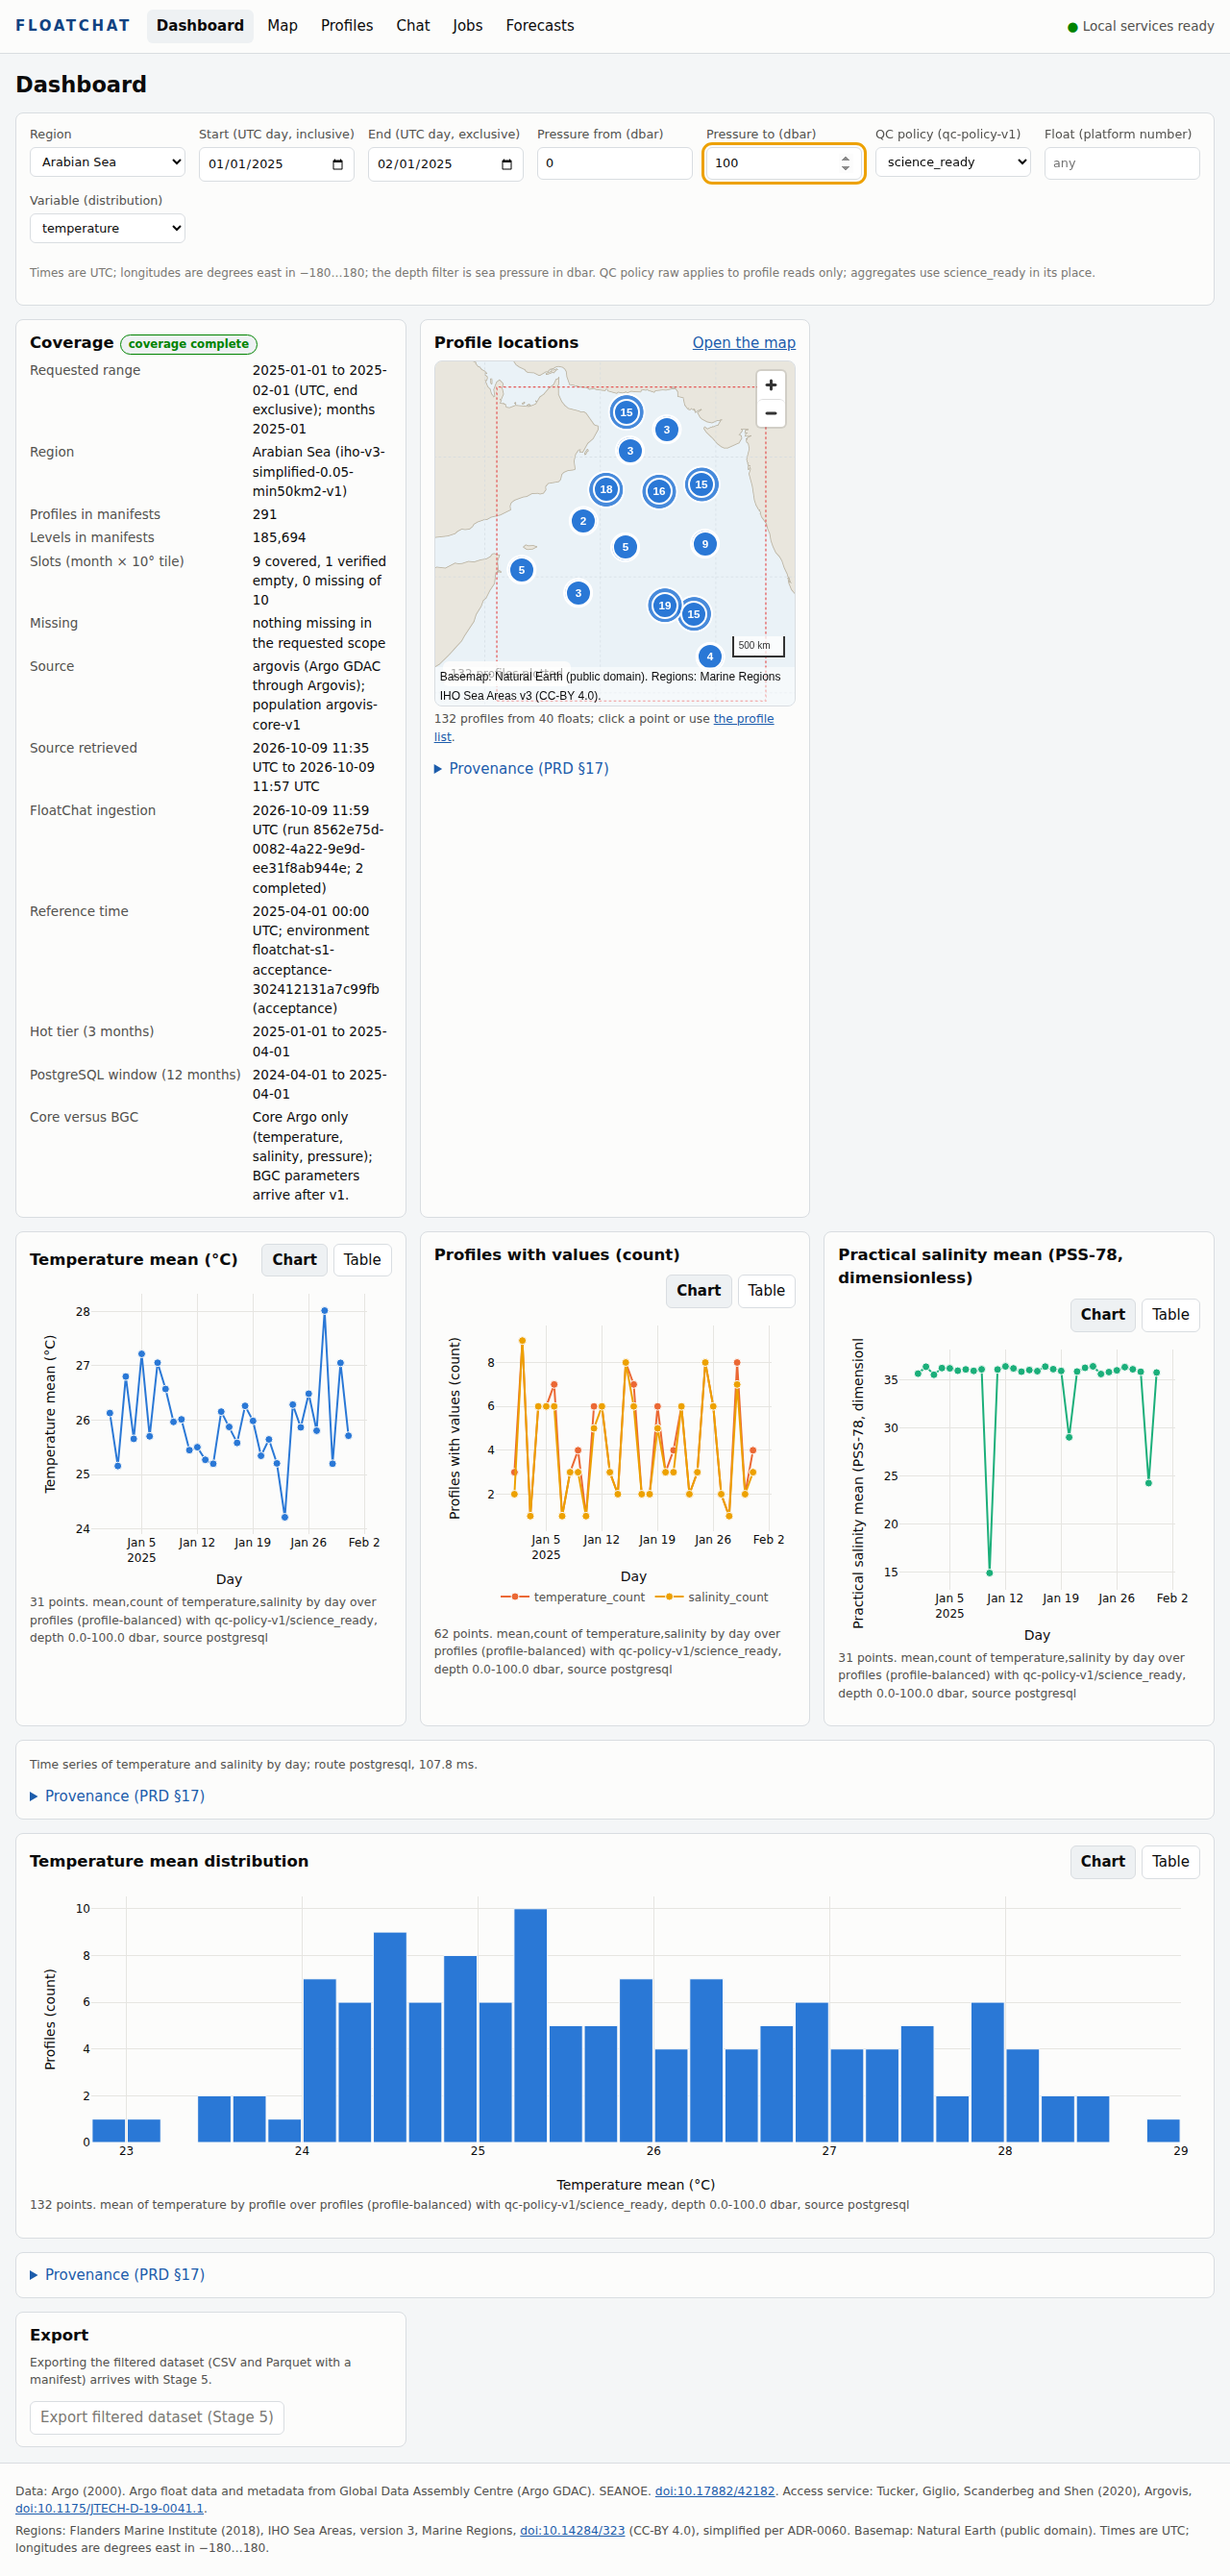
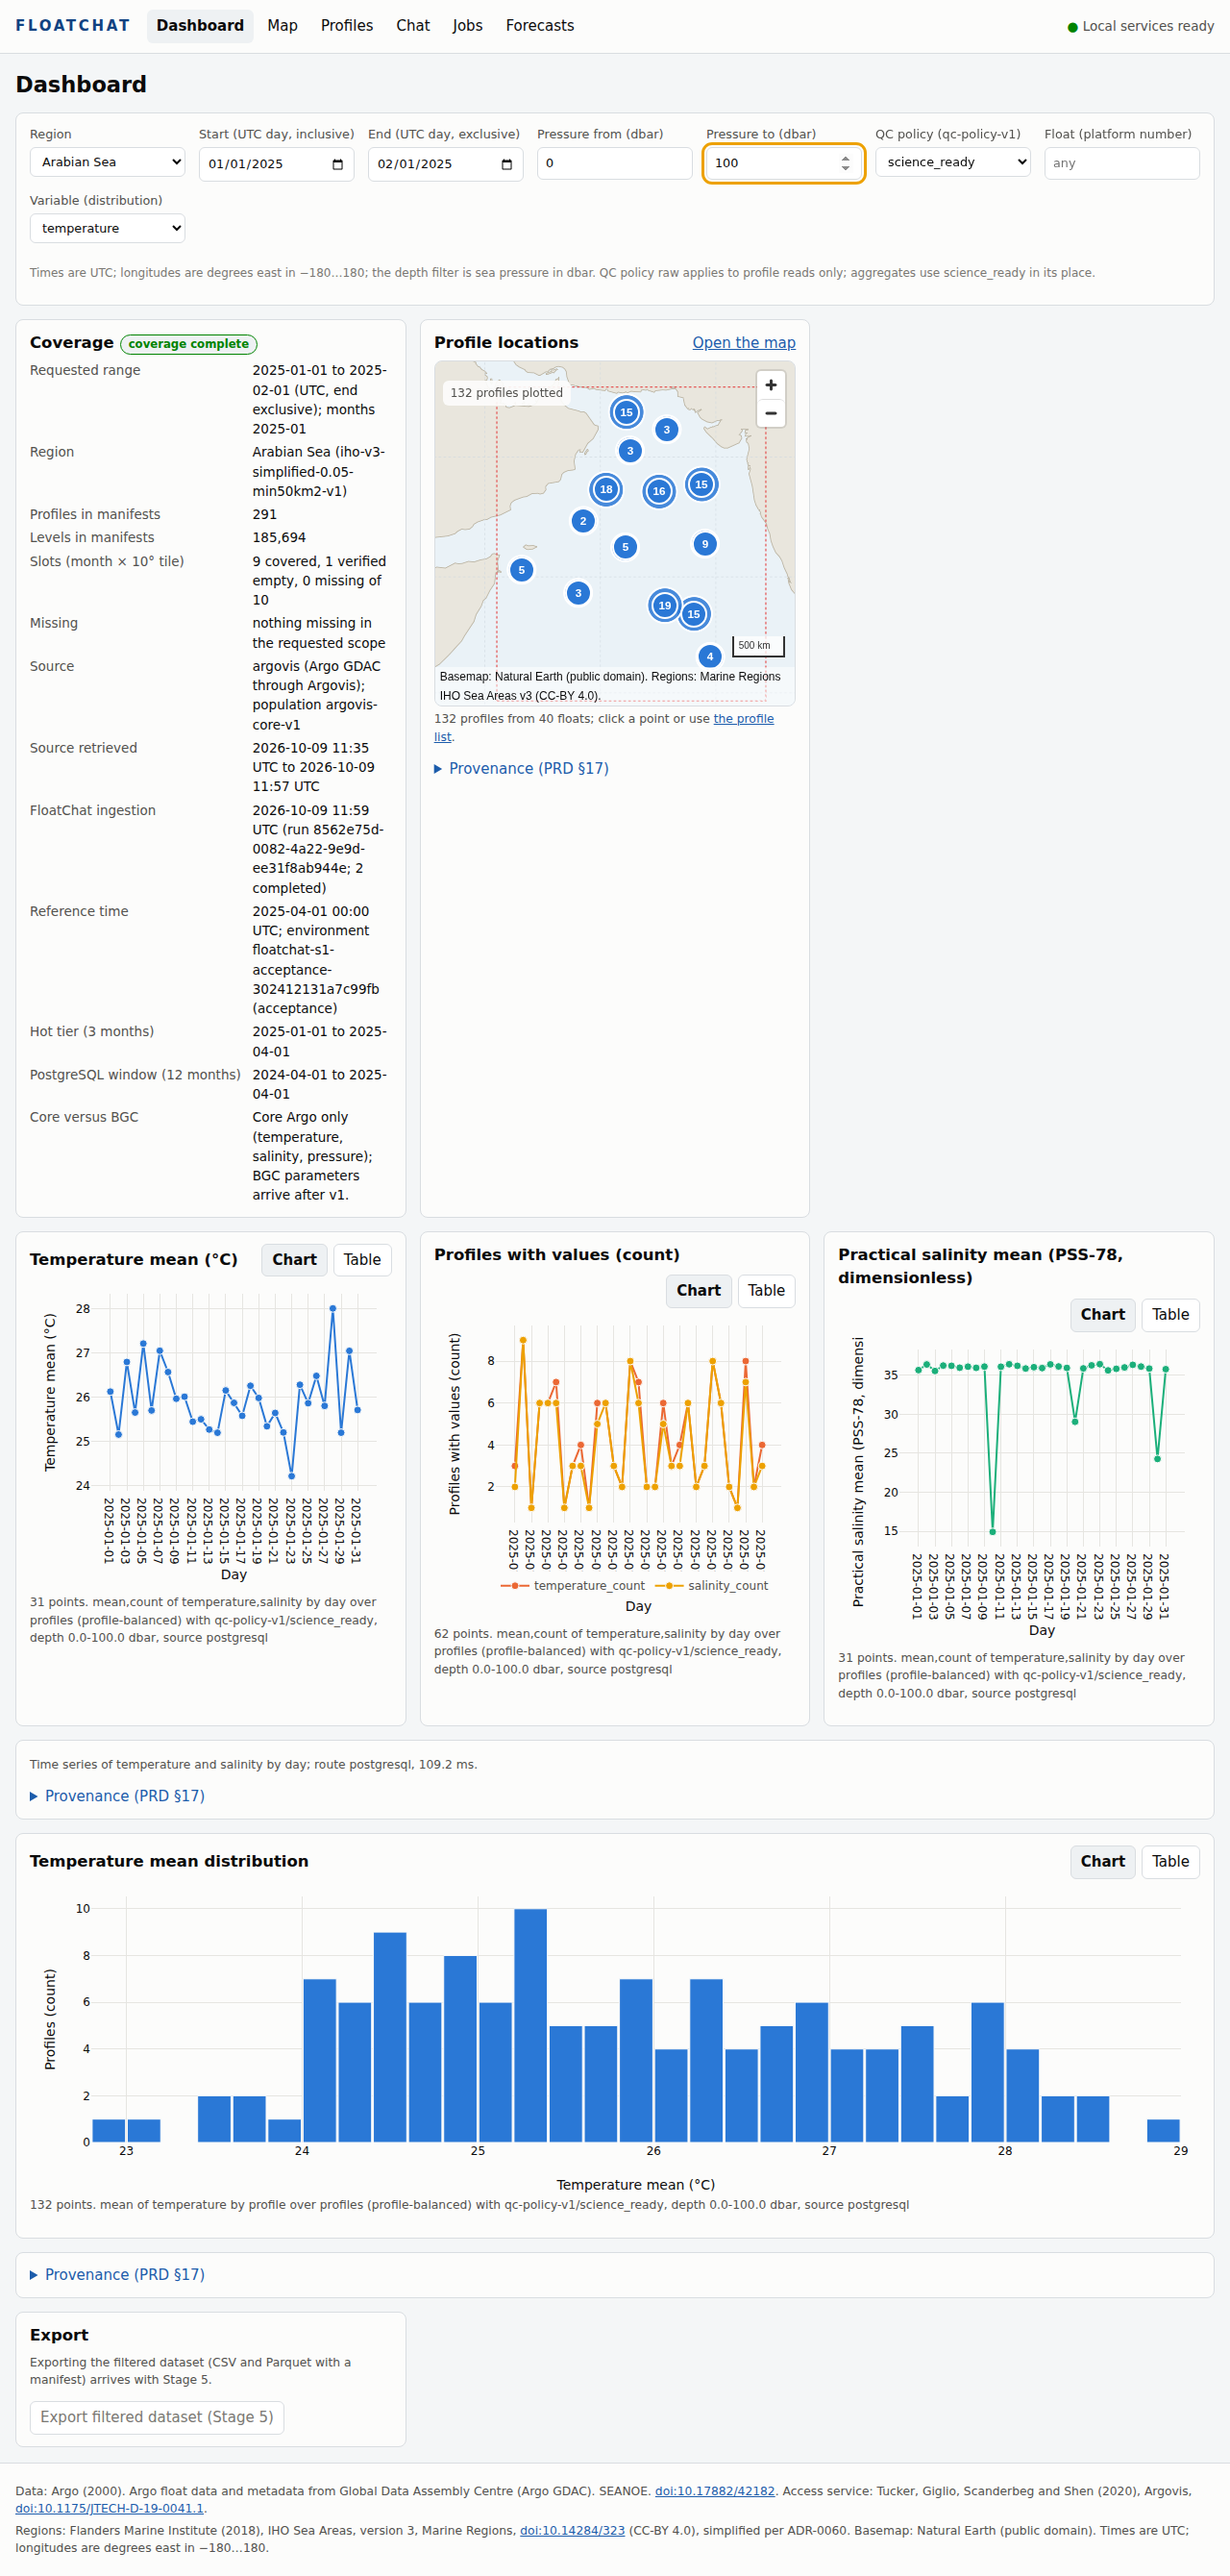
docs(stage3): acceptance re-run on the rebuilt web container; suite heads stated exactly

diff --git a/docs/stage3-gate.md b/docs/stage3-gate.md
@@ -86,19 +86,19 @@ uv run --all-packages --frozen python scripts/stage3_acceptance.py --base-url ht
 
 ## Tests and CI
 
-Local, on `56900f4` and re-run on `815751a` for the web and Python suites (WSL2 Ubuntu 24.04, Docker Desktop):
+Local (WSL2 Ubuntu 24.04, Docker Desktop); the Python and web suites re-run on the gate head `1f3ac89`, the Docker acceptance and the integration suite on `56900f4` (no Python source changed afterwards):
 
 | Check | Result |
 |---|---|
 | `ruff check`, `ruff format --check`, `pnpm lint`, `pnpm format:check` | clean |
 | `mypy` (strict, 53 source files), `tsc --noEmit` | clean |
-| `pytest -m 'not integration'` (Stages 0-3) | 1,870 passed, 1 skipped, 122 integration deselected (75.7 s) |
+| `pytest -m 'not integration'` (Stages 0-3) | 1,870 passed, 1 skipped, 122 integration deselected (97.2 s on `1f3ac89`) |
 | `pnpm test` (Vitest, jsdom, MapLibre and Plotly mocked) | 48 passed in 11 files |
 | `pytest tests/stage2/test_integration.py -m integration` (disposable PostGIS, migration 0017, read provenance) | 12 passed |
 | `pnpm build` (Vite) | built; chunks `index` 503 kB, `maplibre` 1,058 kB, `plotly` 1,512 kB (gzip 159, 288, 504 kB), worker 508 kB |
 | `make secrets-current` (gitleaks 8.30.1) | one finding, the owner's git-ignored `.env.txt` (ADR-0039); nothing tracked |
 | `scripts/integration.py` (Docker acceptance: empty-database checks, seed of 9 profiles with catalogue and objects, API restart with warm-up, probes, outages, repeat start-up, Playwright e2e) | complete; [reports/stage0-integration.json](../reports/stage0-integration.json), project `floatchat-stage0-test-ac9dd329caa2`, empty-volume start-up 27.4 s, 5 profiles in the scenario, both e2e specs passed (7.9 s and 3.8 s) |
-| Playwright against the imported dataset (host Vite, dev API) | 2 passed ([report](../reports/stage3-acceptance-2026-10-10.json)) |
+| Playwright against the imported dataset (the `web` container on 5173, dev API) | 2 passed ([report](../reports/stage3-acceptance-2026-10-10.json)) |
 
 CI (GitHub Actions, workflow `CI`) on the pull-request heads: run
 [38007878218](https://github.com/aayushsaxena17/FloatChat/actions/runs/38007878218) on `5b5bd54` and
@@ -124,7 +124,7 @@ screenshots `01-dashboard.png`, `02-map.png`, `03-profiles.png` under
 | Profiles listed and plotted | 132 |
 | Coverage slots (month x tile): covered / verified empty / missing | 9 / 1 / 0 of 10 |
 | Profiles and levels in the manifests for the scenario's region and month | 291; 185,694 |
-| Playwright: dashboard scenario; shell check | 13.4 s; 2.2 s (both passed) |
+| Playwright: dashboard scenario; shell check | 13.0 s; 3.2 s (both passed, on the `web` container) |
 
 Seeded Docker project ([reports/stage0-integration.json](../reports/stage0-integration.json)):
 5 profiles in the scenario (the seed's January Arabian Sea rows), e2e passed in 7.9 s on the
